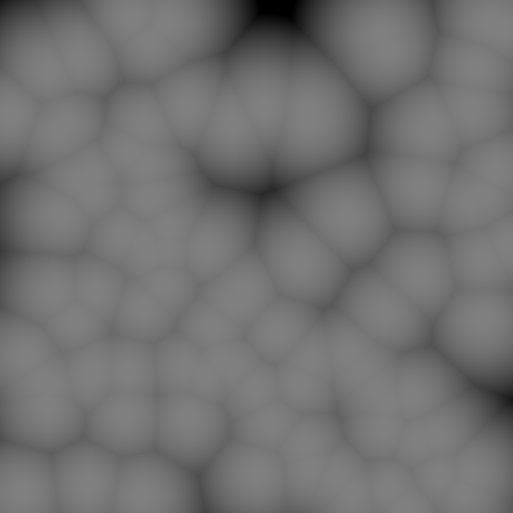
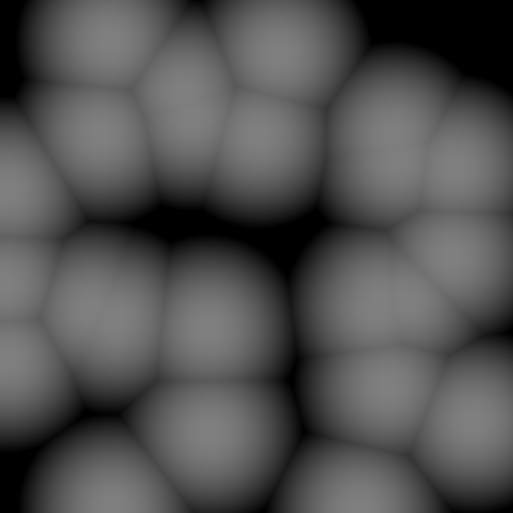
changed the frequency back to normal

diff --git a/SFML_RuleBasedSystem/VoronoiDiagram.cpp b/SFML_RuleBasedSystem/VoronoiDiagram.cpp
@@ -564,7 +564,7 @@ void VoronoiDiagram::DrawNoise(sf::VertexArray& vertexarray, int grid_size, int 
 	}
 	const float scale = 100.0f / (float)grid_size;
 	float low_ = 0.01f;
-	float high_ = 0.010f;
+	float high_ = 0.020f;
 	float r3 = low_ + static_cast <float> (rand()) / (static_cast <float> (RAND_MAX / (high_ - low_)));				//the frequency of the noise between low and high
 	float e2 = r3;
 	
